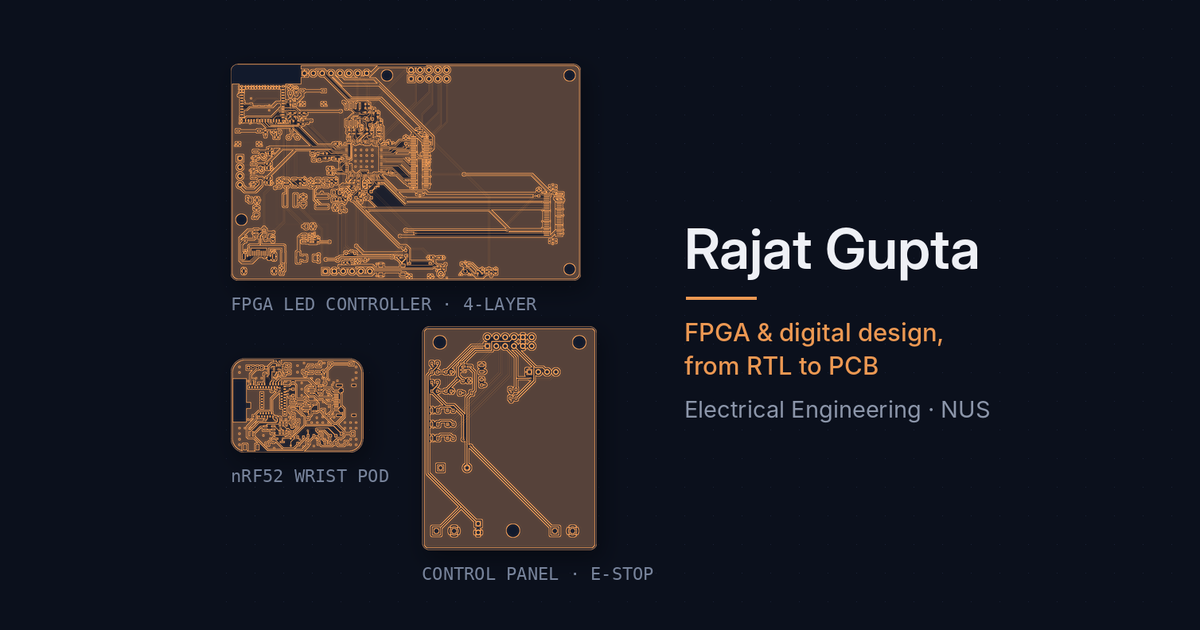
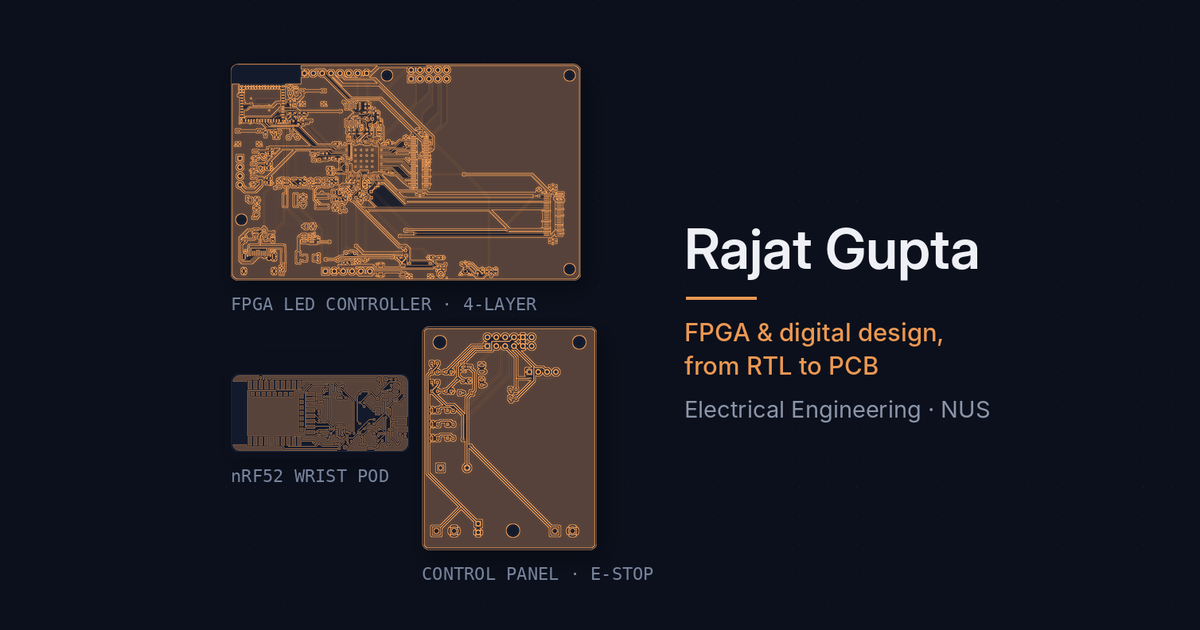
Lift tracker: pod v2 built and in use; new board art

Changed region(s): [[0.185, 0.5429, 0.3392, 0.7238]]

diff --git a/index.html b/index.html
@@ -217,7 +217,7 @@ footer{padding:22px 0 40px;font:12px var(--mono);color:var(--dim);border-top:1px
       <div class="hd"><span>Test results</span><span>from the repos</span></div>
       <div class="row"><span class="p">PASS</span><span class="v">102,044 / 102,044</span><span class="d">market events from a 69-minute real feed, FPGA matching engine identical to the C++ reference</span></div>
       <div class="row"><span class="p">PASS</span><span class="v">3.4 µs p50</span><span class="d">packet to trading features in the FPGA engine (p99 7.6 µs), down from 8.8 µs</span></div>
-      <div class="row"><span class="p">PASS</span><span class="v">32 / 33</span><span class="d">real gym sets counted exactly by my wearable, all 33 within one rep</span></div>
+      <div class="row"><span class="p">PASS</span><span class="v">32 / 33</span><span class="d">real gym sets counted exactly by my wearable (prototype pod), all 33 within one rep</span></div>
       <div class="row"><span class="p">PASS</span><span class="v">3,809 values</span><span class="d">of real market data through my Tiny Tapeout block (1×2 tiles), matching the model</span></div>
     </div>
   </div>
@@ -292,15 +292,15 @@ footer{padding:22px 0 40px;font:12px var(--mono);color:var(--dim);border-top:1px
       </article>
 
       <article class="pcard">
-        <div class="media"><img src="board_pod.webp" alt="Copper layers of the nRF52840 wrist pod board" style="max-width:62%"></div>
+        <div class="media"><img src="board_pod.webp" alt="Top copper of the pod v2 board: nRF52840 module, IMU, flash and charger on 41 x 18 mm" style="max-width:88%"></div>
         <div class="body">
-          <div class="top"><span class="ref"><b>U4</b>Wearable</span><span class="status">In daily use · custom board ordered</span></div>
+          <div class="top"><span class="ref"><b>U4</b>Wearable</span><span class="status">Built · in daily use</span></div>
           <h3>Lift tracker wearable</h3>
-          <p>A wrist motion-sensor pod and an Android app that count gym reps while you lift and end the set on their own.</p>
+          <p>A Fitbit-sized wrist pod and an Android app that count gym reps while you lift, grade each rep's range of motion and end the set on their own.</p>
           <ul class="facts">
-            <li><b>32 of 33</b> real sets counted exactly, all within one rep</li>
-            <li>The app's Kotlin counter is checked against a Python reference model in CI</li>
-            <li>Custom 4-layer pod board: nRF52840, LSM6DSV16X IMU, charger, thinner than a Fitbit Air</li>
+            <li><b>32 of 33</b> real sets counted exactly on the prototype, all within one rep; the Kotlin counter is checked against a Python reference model in CI</li>
+            <li>My own 4-layer board (nRF52840, LSM6DSV16X), <b>0.55 mm thinner than a Fitbit Air</b>, charging on its charger, firmware updates over Bluetooth</li>
+            <li>Bring-up: debugged a board that killed its battery, a sealed pod with no reset button (added a watchdog) and a 25%-in-two-hours battery drain</li>
           </ul>
           <div class="links"><a href="https://github.com/silverajat/lift-tracker" target="_blank" rel="noopener">Repo ↗</a></div>
         </div>
